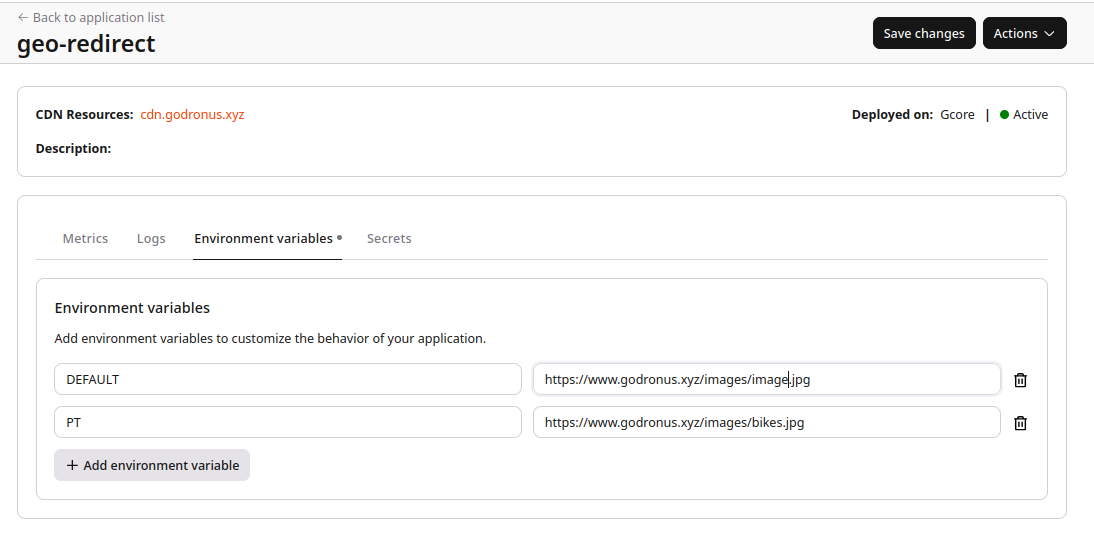
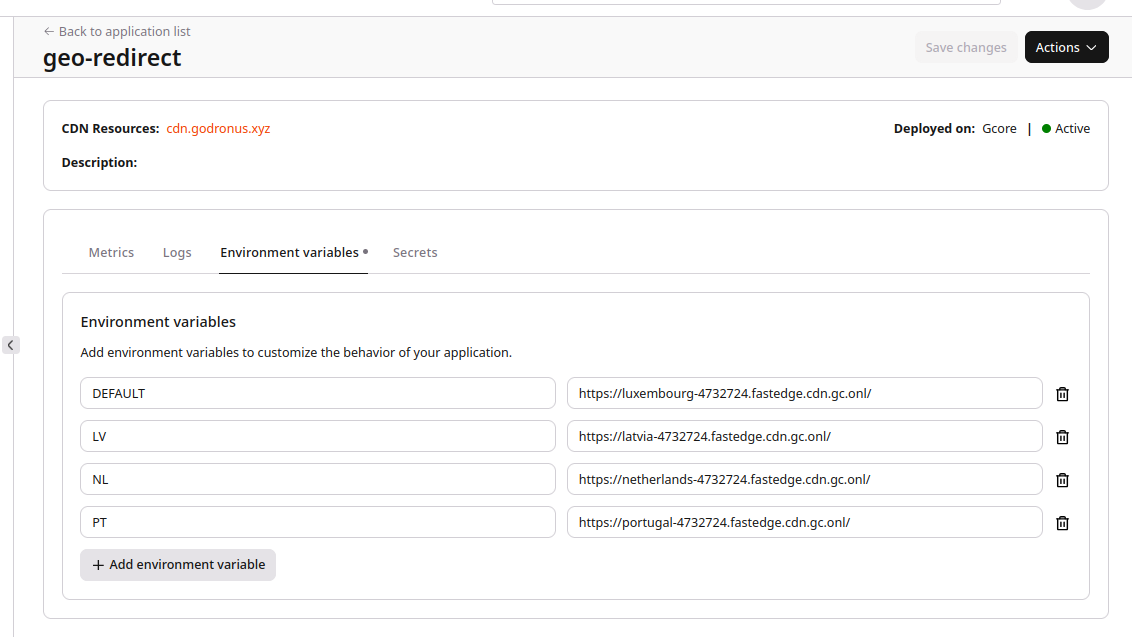
update path in geoRedirect
update path in geoRedirect

diff --git a/assemblyscript/assembly/geoRedirect/index.ts b/assemblyscript/assembly/geoRedirect/index.ts
@@ -31,9 +31,9 @@ class GeoRedirect extends Context {
   onRequestHeaders(a: u32, end_of_stream: bool): FilterHeadersStatusValues {
     log(LogLevelValues.debug, "onRequestHeaders >> ");
 
-    const defaultUrl = getEnvVar("DEFAULT");
+    const defaultOrigin = getEnvVar("DEFAULT");
 
-    if (!defaultUrl) {
+    if (!defaultOrigin) {
       send_http_response(
         INTERNAL_SERVER_ERROR,
         "internal server error",
@@ -43,8 +43,8 @@ class GeoRedirect extends Context {
       return FilterHeadersStatusValues.StopIteration;
     }
 
-    const country = get_property("request.country");
-    if (country.byteLength === 0) {
+    const countryArrBuf = get_property("request.country");
+    if (countryArrBuf.byteLength === 0) {
       send_http_response(
         BAD_GATEWAY,
         "bad gateway",
@@ -53,20 +53,37 @@ class GeoRedirect extends Context {
       );
       return FilterHeadersStatusValues.StopIteration;
     }
-    const countryStr = String.UTF8.decode(country);
-    const countrySpecificUrl = getEnvVar(countryStr);
+    const countryCode = String.UTF8.decode(countryArrBuf);
+    const countrySpecificOrigin = getEnvVar(countryCode);
 
     log(
       LogLevelValues.debug,
-      `Country code: ( ${countryStr} ): ${countrySpecificUrl || "not found"}`
+      `Country code: ( ${countryCode} ): ${
+        countrySpecificOrigin || "no matching origin"
+      }`
     );
 
-    set_property(
-      "request.url",
-      String.UTF8.encode(
-        countrySpecificUrl.length > 0 ? countrySpecificUrl : defaultUrl
-      )
-    );
+    const pathArrBuf = get_property("request.path");
+    if (pathArrBuf.byteLength === 0) {
+      send_http_response(
+        INTERNAL_SERVER_ERROR,
+        "internal server error",
+        String.UTF8.encode("Internal server error - no request path"),
+        []
+      );
+      return FilterHeadersStatusValues.StopIteration;
+    }
+
+    const path = String.UTF8.decode(pathArrBuf);
+    const origin = countrySpecificOrigin || defaultOrigin;
+    // remove trailing slashes from the origin and path
+    const cleanedOrigin = origin.endsWith("/") ? origin.slice(0, -1) : origin;
+
+    const requestUrl = `${cleanedOrigin}${path}`;
+
+    log(LogLevelValues.debug, `request-url: ${requestUrl}`);
+
+    set_property("request.url", String.UTF8.encode(requestUrl));
 
     return FilterHeadersStatusValues.Continue;
   }
